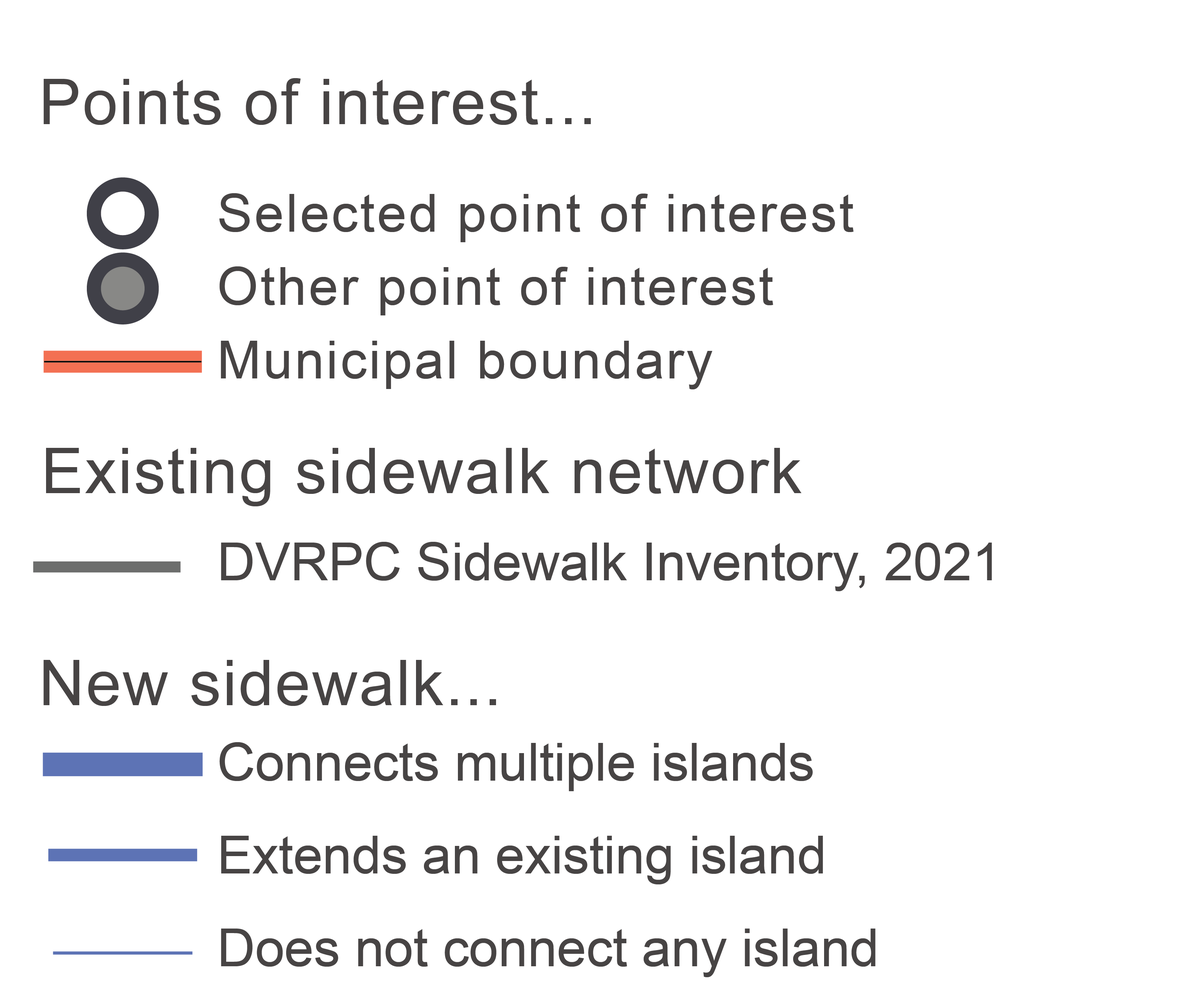
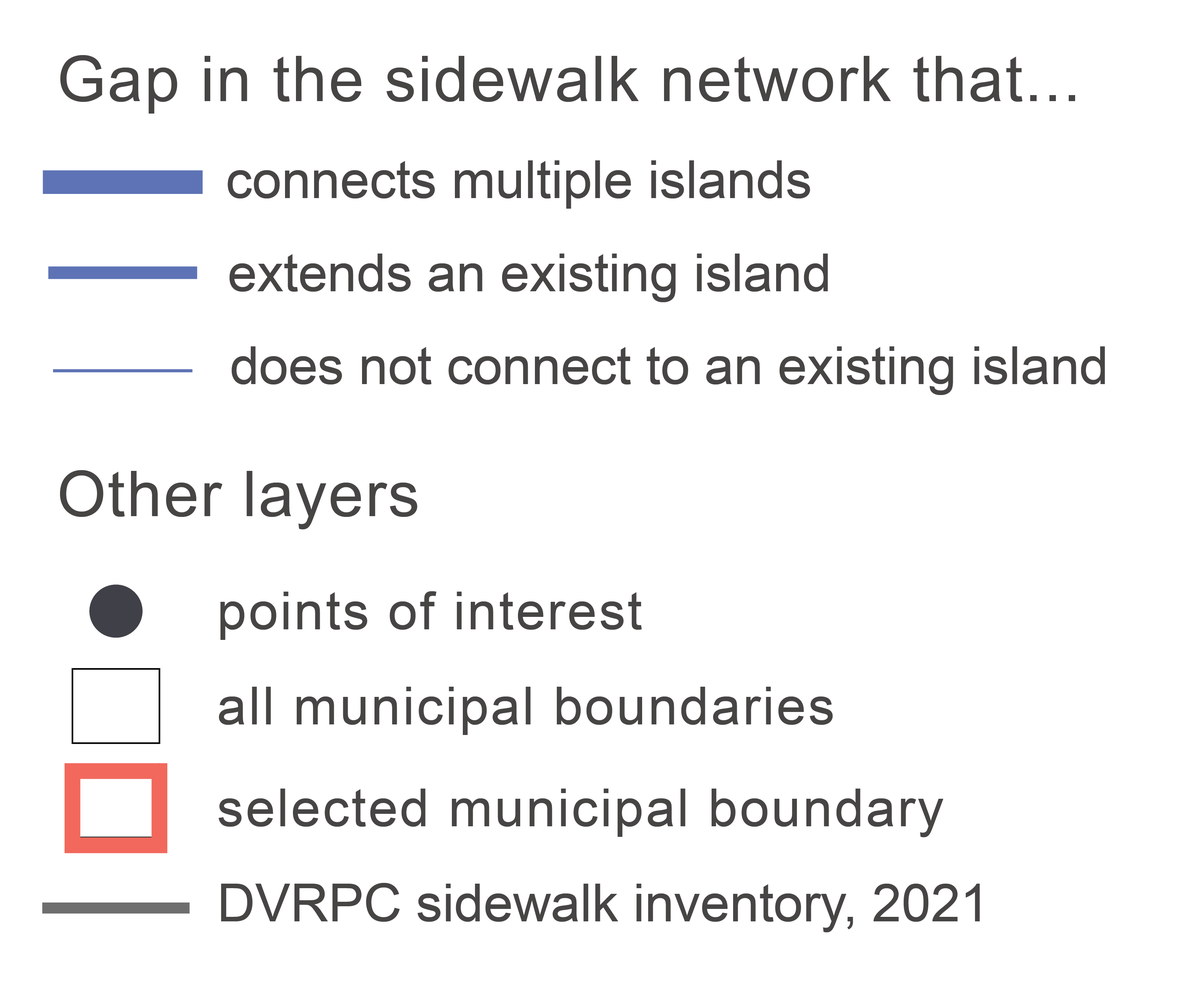
update legends

diff --git a/docs/main_municipal_map.bundle.js b/docs/main_municipal_map.bundle.js
@@ -1,1 +1,1 @@
-(()=>{"use strict";const e={"boundary-tiles":{type:"vector",url:"https://tiles.dvrpc.org/data/census_boundaries.json"},"sidewalk-tiles":{type:"vector",url:"https://tiles.dvrpc.org/data/pedestrian-network.json"},"mcpcv1-tiles":{type:"vector",url:"https://tiles.dvrpc.org/data/sidewalk-prioritiesv3.json"}},t=(e,t)=>{var i;(i=new XMLHttpRequest).open("GET","https://omad-api-lf2k9.ondigitalocean.app/sidewalk/all-munis",!0),i.setRequestHeader("Access-Control-Allow-Origin","*"),i.onload=function(){if(this.status>=200&&this.status<400){var i=JSON.parse(this.response);e.addSource("all-munis",{type:"geojson",data:i}),e.addLayer({id:"all-municipalities",type:"line",source:"all-munis",paint:{"line-color":"black","line-opacity":.5}},t)}},i.send(),(i=new XMLHttpRequest).open("GET","https://omad-api-lf2k9.ondigitalocean.app/sidewalk/one-muni/?q=Abington%20Township",!0),i.setRequestHeader("Access-Control-Allow-Origin","*"),i.onload=function(){if(this.status>=200&&this.status<400){var i=JSON.parse(this.response);e.addSource("one-muni",{type:"geojson",data:i}),e.addLayer({id:"selected-municipality",type:"line",source:"one-muni",paint:{"line-color":"red","line-opacity":0,"line-width":10}},t)}},i.send(),(i=new XMLHttpRequest).open("GET","https://omad-api-lf2k9.ondigitalocean.app/sidewalk/pois-near-gap/?q=60943",!0),i.setRequestHeader("Access-Control-Allow-Origin","*"),i.onload=function(){if(this.status>=200&&this.status<400){var i=JSON.parse(this.response);e.addSource("selected_poi_data",{type:"geojson",data:i}),e.addLayer({id:"selected_pois",type:"circle",source:"selected_poi_data",paint:{"circle-radius":10,"circle-opacity":0,"circle-stroke-opacity":0,"circle-stroke-color":"black","circle-stroke-width":1,"circle-color":{property:"ab_ratio",default:"black",stops:[[0,"rgba(0, 0, 0, 1)"],[1e-4,"rgba(255, 0, 0, 1)"],[.1,"rgba(255, 153, 0, 1)"],[.5,"rgba(255, 255, 0, 1)"],[1,"rgba(0, 153, 0, 1)"]]}}},t)}},i.send()},i=(e,t)=>{let i="https://omad-api-lf2k9.ondigitalocean.app/sidewalk/one-muni/?q="+t.replace(" ","%20"),o="https://omad-api-lf2k9.ondigitalocean.app/sidewalk/gaps-within-muni/?q="+t.replace(" ","%20");var s;console.log(i),(s=new XMLHttpRequest).open("GET",i,!0),s.setRequestHeader("Access-Control-Allow-Origin","*"),s.onload=function(){if(this.status>=200&&this.status<400){var t=JSON.parse(this.response);e.getSource("one-muni").setData(t),e.setPaintProperty("selected-municipality","line-opacity",.5)}},s.send(),(s=new XMLHttpRequest).open("GET",o,!0),s.setRequestHeader("Access-Control-Allow-Origin","*"),s.onload=function(){if(this.status>=200&&this.status<400){var t=JSON.parse(this.response);console.log(t);var i=["in","uid"].concat(t);e.setFilter("gaps",i),e.setPaintProperty("gaps","line-opacity",.5)}},s.send()},o=(e,t,i,o,a)=>{console.log(t),console.log(i);let n="https://omad-api-lf2k9.ondigitalocean.app/sidewalk/gaps-near-xy/?lng="+i+"&lat="+t;var l=new XMLHttpRequest;l.open("GET",n,!0),l.setRequestHeader("Access-Control-Allow-Origin","*"),l.onload=function(){if(this.status>=200&&this.status<400){var n=JSON.parse(this.response),l=["in","uid"].concat(n);e.setFilter("gaps",l),e.setPaintProperty("gaps","line-opacity",.5),s(e,o,[i,t],a)}},l.send()},s=(e,t,i,o)=>{var s=["in","uid",t];e.setFilter("clicked_gap",s),e.setPaintProperty("clicked_gap","line-opacity",1),e.flyTo({center:i,zoom:15,essential:!0});var a=document.getElementById("stat-island");a.innerHTML=o<1?"add to the sidewalk network where none currently exists":1==o?'extend the coverage of  <span class="green-text" style="font-weight: bold">one</span> existing island':'connect <span class="green-text" style="font-weight: bold">'+o+"</span> existing sidewalk islands";let n="https://omad-api-lf2k9.ondigitalocean.app/sidewalk/pois-near-gap/?q="+t.toString();var l=new XMLHttpRequest;l.open("GET",n,!0),l.setRequestHeader("Access-Control-Allow-Origin","*"),l.onload=function(){if(this.status>=200&&this.status<400){var t=JSON.parse(this.response),i=Object.keys(t.features).length;e.getSource("selected_poi_data").setData(t),e.setPaintProperty("selected_pois","circle-stroke-opacity",1),e.setPaintProperty("selected_pois","circle-opacity",1),document.getElementById("stat-destinations").innerHTML='improve pedestrian connectivity to <span class="green-text" style="font-weight: bold">'+i+"</span> destinations"}},l.send(),document.getElementById("stat-box").style.setProperty("visibility","visible")},a=e=>{e.on("click","all_pois",(function(e){var t=e.features[0].properties,i=e.lngLat.lat,o=e.lngLat.lng;let s=((a=window.location.href.split("/")).pop(),a.join("/")+"/by-destination.html?lat="+i+"&lng="+o+"&id="+t.poi_uid+"&name="+t.poi_name.replace(" ","_")+"&ab_ratio="+t.ab_ratio.toString());var a;console.log(s),window.location.href=s}))},n=(e,t,i)=>{new mapboxgl.Popup({closeButton:!1,className:"i-am-a-popup"}).setLngLat(i.lngLat).setHTML(t).addTo(e)},l=()=>{var e=document.getElementsByClassName("mapboxgl-popup");e.length&&e[0].remove()},r=e=>{["gaps","all_pois"].forEach((t=>((e,t)=>{e.on("mouseenter",t,(()=>e.getCanvas().style.cursor="pointer")),e.on("mouseleave",t,(function(t){e.getCanvas().style.cursor=""}))})(e,t))),e.on("mouseenter","gaps",(function(t){n(e,"<h3>Click this gap to learn more</h3>",t)})),e.on("mouseleave","gaps",(function(e){l()})),e.on("mouseenter","all_pois",(function(t){var i=t.features[0].properties,o="<div style='text-align: center;'><h3 class='green-text'>"+(e=>{try{var t=e.split(" ").map((e=>e[0].toUpperCase()+e.substr(1).toLowerCase())).join(" ")}catch{t=e}return t})(i.poi_name)+"</h3>";o+="<p>"+(e=>{var t=100*e;if(t>100&&(t=100),100==t)var i="100%";else i=0==t?"No":t<0?"Only":String(t.toFixed(1))+"%";return i})(i.ab_ratio)+" sidewalk coverage</p><p class='italic' style='font-size:80%'>Click this point to jump to the destination map</p></div>",n(e,o,t)})),e.on("mouseleave","all_pois",(function(e){l()}))};mapboxgl.accessToken="pk.eyJ1IjoiYWFyb25kdnJwYyIsImEiOiJja2NvN2s5dnAwaWR2MnptbzFwYmd2czVvIn0.Fcc34gzGME_zHR5q4RnSOg";const c={montco:{id:"montco",type:"line",source:"boundary-tiles","source-layer":"county",layout:{},paint:{"line-width":10,"line-opacity":.4,"line-color":"black"},filter:["==","CNTY_NAME","Montgomery County"]}},p={sw:{id:"sw",type:"line",source:"sidewalk-tiles","source-layer":"ped_lines",paint:{"line-width":4,"line-opacity":.2,"line-color":"black"},layout:{visibility:"visible"},filter:["all",["==","line_type",1],["==","county","MONTGOMERY"]]},xwalk:{id:"xwalk",type:"line",source:"sidewalk-tiles","source-layer":"ped_lines",paint:{"line-width":9,"line-opacity":.2,"line-color":"black"},layout:{visibility:"visible"},filter:["all",["==","line_type",2],["==","county","MONTGOMERY"]]},clicked_gap:{id:"clicked_gap",type:"line",source:"mcpcv1-tiles","source-layer":"montco_missing_sidewalks",paint:{"line-color":"yellow","line-opacity":0,"line-width":{property:"island_count",default:100,stops:[[0,3],[1,10],[2,20]]}},layout:{visibility:"visible"}},gaps:{id:"gaps",type:"line",source:"mcpcv1-tiles","source-layer":"montco_missing_sidewalks",paint:{"line-color":"rgb(57,83,164)","line-opacity":0,"line-width":{property:"island_count",default:100,stops:[[0,1],[1,5],[2,10]]}},layout:{visibility:"visible"},filter:["==","uid","-1"]},all_pois:{id:"all_pois",type:"circle",source:"mcpcv1-tiles","source-layer":"pois_centroids",layout:{},paint:{"circle-radius":3,"circle-opacity":.6,"circle-stroke-opacity":.6,"circle-stroke-color":"white","circle-stroke-width":1,"circle-color":"black"}}},d={sidewalks:{id:"sw",attribute:"line-width",style:["interpolate",["exponential",.5],["zoom"],10,.01,17,3]},crosswalks:{id:"xwalk",attribute:"line-width",style:["interpolate",["exponential",.5],["zoom"],10,.05,18,6]}},u=e=>{var t=document.getElementById("dropdown_muni"),o=document.getElementById("subtitle");t.addEventListener("change",(function(){var s=t.value;o.innerHTML=s,i(e,s),document.getElementById("stat-box").style.setProperty("visibility","hidden");let a="https://omad-api-lf2k9.ondigitalocean.app/sidewalk/one-muni-centroid/?q="+s.replace(" ","%20");var n=new XMLHttpRequest;n.open("GET",a,!0),n.setRequestHeader("Access-Control-Allow-Origin","*"),n.onload=function(){if(this.status>=200&&this.status<400){var t=JSON.parse(this.response);console.log(t),e.flyTo({center:[t[0].x,t[0].y],zoom:13,essential:!0})}},n.send(),e.setPaintProperty("clicked_gap","line-opacity",0),e.setPaintProperty("selected_pois","circle-opacity",0),e.setPaintProperty("selected_pois","circle-stroke-opacity",0)}))},y=new mapboxgl.Map({container:"map",style:"mapbox://styles/aarondvrpc/ckqhcmx6x95x318pgqzt4jicq",center:[-75.36277290123333,40.20129661107534],zoom:10});y.on("load",(function(){for(const t in e)y.addSource(t,e[t]);for(const e in c)y.addLayer(c[e],"road-label");t(y,"road-label");for(const e in p)y.addLayer(p[e],"road-label");for(const e in d)y.setPaintProperty(d[e].id,d[e].attribute,d[e].style);(e=>{e.on("click","gaps",(function(t){var i=t.features[0].properties;console.log(i),s(e,i.uid,t.lngLat,i.island_count)}))})(y),a(y),r(y),u(y);let i=(()=>{let e=new URLSearchParams(window.location).get("search");if(""==e)return null;{let t={};return e.split("&").forEach((e=>{let i=(e=e.replace("?","")).split("=");t[i[0]]=i[1]})),t}})();i&&(console.log(i),o(y,i.lat,i.lng,parseInt(i.id),i.island_count))}))})();
+(()=>{"use strict";const e={"boundary-tiles":{type:"vector",url:"https://tiles.dvrpc.org/data/census_boundaries.json"},"sidewalk-tiles":{type:"vector",url:"https://tiles.dvrpc.org/data/pedestrian-network.json"},"mcpcv1-tiles":{type:"vector",url:"https://tiles.dvrpc.org/data/sidewalk-prioritiesv3.json"}},t=(e,t)=>{var i;(i=new XMLHttpRequest).open("GET","https://omad-api-lf2k9.ondigitalocean.app/sidewalk/all-munis",!0),i.setRequestHeader("Access-Control-Allow-Origin","*"),i.onload=function(){if(this.status>=200&&this.status<400){var i=JSON.parse(this.response);e.addSource("all-munis",{type:"geojson",data:i}),e.addLayer({id:"all-municipalities",type:"line",source:"all-munis",paint:{"line-color":"black","line-opacity":.5}},t)}},i.send(),(i=new XMLHttpRequest).open("GET","https://omad-api-lf2k9.ondigitalocean.app/sidewalk/one-muni/?q=Abington%20Township",!0),i.setRequestHeader("Access-Control-Allow-Origin","*"),i.onload=function(){if(this.status>=200&&this.status<400){var i=JSON.parse(this.response);e.addSource("one-muni",{type:"geojson",data:i}),e.addLayer({id:"selected-municipality",type:"line",source:"one-muni",paint:{"line-color":"red","line-opacity":0,"line-width":10}},t)}},i.send(),(i=new XMLHttpRequest).open("GET","https://omad-api-lf2k9.ondigitalocean.app/sidewalk/pois-near-gap/?q=60943",!0),i.setRequestHeader("Access-Control-Allow-Origin","*"),i.onload=function(){if(this.status>=200&&this.status<400){var i=JSON.parse(this.response);e.addSource("selected_poi_data",{type:"geojson",data:i}),e.addLayer({id:"selected_pois",type:"circle",source:"selected_poi_data",paint:{"circle-radius":10,"circle-opacity":0,"circle-stroke-opacity":0,"circle-stroke-color":"black","circle-stroke-width":1,"circle-color":{property:"ab_ratio",default:"black",stops:[[0,"rgba(0, 0, 0, 1)"],[1e-4,"rgba(255, 0, 0, 1)"],[.1,"rgba(255, 153, 0, 1)"],[.5,"rgba(255, 255, 0, 1)"],[1,"rgba(0, 153, 0, 1)"]]}}},t)}},i.send()},i=(e,t)=>{let i="https://omad-api-lf2k9.ondigitalocean.app/sidewalk/one-muni/?q="+t.replace(" ","%20"),o="https://omad-api-lf2k9.ondigitalocean.app/sidewalk/gaps-within-muni/?q="+t.replace(" ","%20");var s;console.log(i),(s=new XMLHttpRequest).open("GET",i,!0),s.setRequestHeader("Access-Control-Allow-Origin","*"),s.onload=function(){if(this.status>=200&&this.status<400){var t=JSON.parse(this.response);e.getSource("one-muni").setData(t),e.setPaintProperty("selected-municipality","line-opacity",.5)}},s.send(),(s=new XMLHttpRequest).open("GET",o,!0),s.setRequestHeader("Access-Control-Allow-Origin","*"),s.onload=function(){if(this.status>=200&&this.status<400){var t=JSON.parse(this.response);console.log(t);var i=["in","uid"].concat(t);e.setFilter("gaps",i),e.setPaintProperty("gaps","line-opacity",.5)}},s.send()},o=(e,t,i,o,a)=>{console.log(t),console.log(i);let n="https://omad-api-lf2k9.ondigitalocean.app/sidewalk/gaps-near-xy/?lng="+i+"&lat="+t;var l=new XMLHttpRequest;l.open("GET",n,!0),l.setRequestHeader("Access-Control-Allow-Origin","*"),l.onload=function(){if(this.status>=200&&this.status<400){var n=JSON.parse(this.response),l=["in","uid"].concat(n);e.setFilter("gaps",l),e.setPaintProperty("gaps","line-opacity",.5),s(e,o,[i,t],a)}},l.send()},s=(e,t,i,o)=>{var s=["in","uid",t];e.setFilter("clicked_gap",s),e.setPaintProperty("clicked_gap","line-opacity",1),e.flyTo({center:i,zoom:15,essential:!0});var a=document.getElementById("stat-island");a.innerHTML=o<1?"add to the sidewalk network where none currently exists":1==o?'extend the coverage of  <span class="green-text" style="font-weight: bold">one</span> existing island':'connect <span class="green-text" style="font-weight: bold">'+o+"</span> existing sidewalk islands";let n="https://omad-api-lf2k9.ondigitalocean.app/sidewalk/pois-near-gap/?q="+t.toString();var l=new XMLHttpRequest;l.open("GET",n,!0),l.setRequestHeader("Access-Control-Allow-Origin","*"),l.onload=function(){if(this.status>=200&&this.status<400){var t=JSON.parse(this.response),i=Object.keys(t.features).length;e.getSource("selected_poi_data").setData(t),e.setPaintProperty("selected_pois","circle-stroke-opacity",1),e.setPaintProperty("selected_pois","circle-opacity",1),document.getElementById("stat-destinations").innerHTML='improve pedestrian connectivity to <span class="green-text" style="font-weight: bold">'+i+"</span> destinations"}},l.send(),document.getElementById("stat-box").style.setProperty("visibility","visible"),document.getElementById("poi-legend").style.setProperty("display","inline")},a=e=>{e.on("click","all_pois",(function(e){var t=e.features[0].properties,i=e.lngLat.lat,o=e.lngLat.lng;let s=((a=window.location.href.split("/")).pop(),a.join("/")+"/by-destination.html?lat="+i+"&lng="+o+"&id="+t.poi_uid+"&name="+t.poi_name.replace(" ","_")+"&ab_ratio="+t.ab_ratio.toString());var a;console.log(s),window.location.href=s}))},n=(e,t,i)=>{new mapboxgl.Popup({closeButton:!1,className:"i-am-a-popup"}).setLngLat(i.lngLat).setHTML(t).addTo(e)},l=()=>{var e=document.getElementsByClassName("mapboxgl-popup");e.length&&e[0].remove()},r=e=>{["gaps","all_pois"].forEach((t=>((e,t)=>{e.on("mouseenter",t,(()=>e.getCanvas().style.cursor="pointer")),e.on("mouseleave",t,(function(t){e.getCanvas().style.cursor=""}))})(e,t))),e.on("mouseenter","gaps",(function(t){n(e,"<h3>Click this gap to learn more</h3>",t)})),e.on("mouseleave","gaps",(function(e){l()})),e.on("mouseenter","all_pois",(function(t){var i=t.features[0].properties,o="<div style='text-align: center;'><h3 class='green-text'>"+(e=>{try{var t=e.split(" ").map((e=>e[0].toUpperCase()+e.substr(1).toLowerCase())).join(" ")}catch{t=e}return t})(i.poi_name)+"</h3>";o+="<p>"+(e=>{var t=100*e;if(t>100&&(t=100),100==t)var i="100%";else i=0==t?"No":t<0?"Only":String(t.toFixed(1))+"%";return i})(i.ab_ratio)+" sidewalk coverage</p><p class='italic' style='font-size:80%'>Click this point to jump to the destination map</p></div>",n(e,o,t)})),e.on("mouseleave","all_pois",(function(e){l()}))};mapboxgl.accessToken="pk.eyJ1IjoiYWFyb25kdnJwYyIsImEiOiJja2NvN2s5dnAwaWR2MnptbzFwYmd2czVvIn0.Fcc34gzGME_zHR5q4RnSOg";const c={montco:{id:"montco",type:"line",source:"boundary-tiles","source-layer":"county",layout:{},paint:{"line-width":10,"line-opacity":.4,"line-color":"black"},filter:["==","CNTY_NAME","Montgomery County"]}},p={sw:{id:"sw",type:"line",source:"sidewalk-tiles","source-layer":"ped_lines",paint:{"line-width":4,"line-opacity":.2,"line-color":"black"},layout:{visibility:"visible"},filter:["all",["==","line_type",1],["==","county","MONTGOMERY"]]},xwalk:{id:"xwalk",type:"line",source:"sidewalk-tiles","source-layer":"ped_lines",paint:{"line-width":9,"line-opacity":.2,"line-color":"black"},layout:{visibility:"visible"},filter:["all",["==","line_type",2],["==","county","MONTGOMERY"]]},clicked_gap:{id:"clicked_gap",type:"line",source:"mcpcv1-tiles","source-layer":"montco_missing_sidewalks",paint:{"line-color":"yellow","line-opacity":0,"line-width":{property:"island_count",default:100,stops:[[0,3],[1,10],[2,20]]}},layout:{visibility:"visible"}},gaps:{id:"gaps",type:"line",source:"mcpcv1-tiles","source-layer":"montco_missing_sidewalks",paint:{"line-color":"rgb(57,83,164)","line-opacity":0,"line-width":{property:"island_count",default:100,stops:[[0,1],[1,5],[2,10]]}},layout:{visibility:"visible"},filter:["==","uid","-1"]},all_pois:{id:"all_pois",type:"circle",source:"mcpcv1-tiles","source-layer":"pois_centroids",layout:{},paint:{"circle-radius":3,"circle-opacity":.6,"circle-stroke-opacity":.6,"circle-stroke-color":"white","circle-stroke-width":1,"circle-color":"black"}}},d={sidewalks:{id:"sw",attribute:"line-width",style:["interpolate",["exponential",.5],["zoom"],10,.01,17,3]},crosswalks:{id:"xwalk",attribute:"line-width",style:["interpolate",["exponential",.5],["zoom"],10,.05,18,6]}},u=e=>{var t=document.getElementById("dropdown_muni"),o=document.getElementById("subtitle");t.addEventListener("change",(function(){var s=t.value;o.innerHTML=s,i(e,s),document.getElementById("stat-box").style.setProperty("visibility","hidden");let a="https://omad-api-lf2k9.ondigitalocean.app/sidewalk/one-muni-centroid/?q="+s.replace(" ","%20");var n=new XMLHttpRequest;n.open("GET",a,!0),n.setRequestHeader("Access-Control-Allow-Origin","*"),n.onload=function(){if(this.status>=200&&this.status<400){var t=JSON.parse(this.response);console.log(t),e.flyTo({center:[t[0].x,t[0].y],zoom:13,essential:!0})}},n.send(),e.setPaintProperty("clicked_gap","line-opacity",0),e.setPaintProperty("selected_pois","circle-opacity",0),e.setPaintProperty("selected_pois","circle-stroke-opacity",0)}))},y=new mapboxgl.Map({container:"map",style:"mapbox://styles/aarondvrpc/ckqhcmx6x95x318pgqzt4jicq",center:[-75.36277290123333,40.20129661107534],zoom:10});y.on("load",(function(){for(const t in e)y.addSource(t,e[t]);for(const e in c)y.addLayer(c[e],"road-label");t(y,"road-label");for(const e in p)y.addLayer(p[e],"road-label");for(const e in d)y.setPaintProperty(d[e].id,d[e].attribute,d[e].style);(e=>{e.on("click","gaps",(function(t){var i=t.features[0].properties;console.log(i),s(e,i.uid,t.lngLat,i.island_count)}))})(y),a(y),r(y),u(y);let i=(()=>{let e=new URLSearchParams(window.location).get("search");if(""==e)return null;{let t={};return e.split("&").forEach((e=>{let i=(e=e.replace("?","")).split("=");t[i[0]]=i[1]})),t}})();i&&(console.log(i),o(y,i.lat,i.lng,parseInt(i.id),i.island_count))}))})();

diff --git a/docs/by-municipality.html b/docs/by-municipality.html
@@ -1,1 +1,1 @@
-<!doctype html><html><head><meta charset="utf-8"><title>Sidewalk Priorities</title><meta name="viewport" content="initial-scale=1,maximum-scale=1,user-scalable=no"><link href="https://api.mapbox.com/mapbox-gl-js/v2.3.1/mapbox-gl.css" rel="stylesheet"><script src="https://api.mapbox.com/mapbox-gl-js/v2.3.1/mapbox-gl.js"></script><link rel="preconnect" href="https://fonts.gstatic.com"><link href="https://fonts.googleapis.com/css2?family=Roboto:wght@100;400;500&display=swap" rel="stylesheet"><script src="https://cdnjs.cloudflare.com/ajax/libs/Chart.js/3.5.0/chart.min.js" integrity="sha512-asxKqQghC1oBShyhiBwA+YgotaSYKxGP1rcSYTDrB0U6DxwlJjU59B67U8+5/++uFjcuVM8Hh5cokLjZlhm3Vg==" crossorigin="anonymous" referrerpolicy="no-referrer"></script><script defer="defer" src="main_municipal_map.bundle.js"></script><link href="main_municipal_map.css" rel="stylesheet"></head><body><div id="map"><div id="headerblock"><div class="box-overlay"><h1>Priorities by Municipality:</h1><h2 id="subtitle" class="green-text">Use the dropdown below to select a municipality of interest</h2><hr><span class="green-text italic">Zoom to a municipality</span> by selecting from the list below:<p><select id="dropdown_muni"><option value="...">...</option><option value="Abington Township">Abington Township</option><option value="Ambler Borough">Ambler Borough</option><option value="Bridgeport Borough">Bridgeport Borough</option><option value="Bryn Athyn Borough">Bryn Athyn Borough</option><option value="Cheltenham Township">Cheltenham Township</option><option value="Collegeville Borough">Collegeville Borough</option><option value="Conshohocken Borough">Conshohocken Borough</option><option value="Douglass Township">Douglass Township</option><option value="East Greenville Borough">East Greenville Borough</option><option value="East Norriton Township">East Norriton Township</option><option value="Franconia Township">Franconia Township</option><option value="Green Lane Borough">Green Lane Borough</option><option value="Hatboro Borough">Hatboro Borough</option><option value="Hatfield Borough">Hatfield Borough</option><option value="Hatfield Township">Hatfield Township</option><option value="Horsham Township">Horsham Township</option><option value="Jenkintown Borough">Jenkintown Borough</option><option value="Lansdale Borough">Lansdale Borough</option><option value="Limerick Township">Limerick Township</option><option value="Lower Frederick Township">Lower Frederick Township</option><option value="Lower Gwynedd Township">Lower Gwynedd Township</option><option value="Lower Merion Township">Lower Merion Township</option><option value="Lower Moreland Township">Lower Moreland Township</option><option value="Lower Pottsgrove Township">Lower Pottsgrove Township</option><option value="Lower Providence Township">Lower Providence Township</option><option value="Lower Salford Township">Lower Salford Township</option><option value="Marlborough Township">Marlborough Township</option><option value="Montgomery Township">Montgomery Township</option><option value="Narberth Borough">Narberth Borough</option><option value="New Hanover Township">New Hanover Township</option><option value="Norristown Borough">Norristown Borough</option><option value="North Wales Borough">North Wales Borough</option><option value="Pennsburg Borough">Pennsburg Borough</option><option value="Perkiomen Township">Perkiomen Township</option><option value="Plymouth Township">Plymouth Township</option><option value="Pottstown Borough">Pottstown Borough</option><option value="Red Hill Borough">Red Hill Borough</option><option value="Rockledge Borough">Rockledge Borough</option><option value="Royersford Borough">Royersford Borough</option><option value="Salford Township">Salford Township</option><option value="Schwenksville Borough">Schwenksville Borough</option><option value="Skippack Township">Skippack Township</option><option value="Souderton Borough">Souderton Borough</option><option value="Springfield Township">Springfield Township</option><option value="Telford Borough">Telford Borough</option><option value="Towamencin Township">Towamencin Township</option><option value="Trappe Borough">Trappe Borough</option><option value="Upper Dublin Township">Upper Dublin Township</option><option value="Upper Frederick Township">Upper Frederick Township</option><option value="Upper Gwynedd Township">Upper Gwynedd Township</option><option value="Upper Hanover Township">Upper Hanover Township</option><option value="Upper Merion Township">Upper Merion Township</option><option value="Upper Moreland Township">Upper Moreland Township</option><option value="Upper Pottsgrove Township">Upper Pottsgrove Township</option><option value="Upper Providence Township">Upper Providence Township</option><option value="Upper Salford Township">Upper Salford Township</option><option value="West Conshohocken Borough">West Conshohocken Borough</option><option value="West Norriton Township">West Norriton Township</option><option value="West Pottsgrove Township">West Pottsgrove Township</option><option value="Whitemarsh Township">Whitemarsh Township</option><option value="Whitpain Township">Whitpain Township</option><option value="Worcester Township">Worcester Township</option></select></p><hr><div class="btn-group"><button class="button" onclick="location.href='index.html'">About this map</button> <button class="button" onclick="location.href='by-destination.html'">Explore by Destination</button></div></div><div id="stat-box" class="box-overlay"><h2>Filling this gap could:</h2><ul><li id="stat-destinations">improve pedestrian connectivity to <span class="green-text">X</span> destinations</li><li id="stat-island">connect <span class="green-text">X</span> existing sidewalk islands</li></ul></div></div><div id="legendblock"><div class="box-overlay"><h3>This is a placeholder for the legend</h3></div></div><div id="logo-box"><div><img id="dvrpc-logo" src="./img/logo.png" alt=""><br><br><img id="mcpc-logo" src="./img/mcpc_logo.png" alt=""></div></div></div></body></html>
+<!doctype html><html><head><meta charset="utf-8"><title>Sidewalk Priorities</title><meta name="viewport" content="initial-scale=1,maximum-scale=1,user-scalable=no"><link href="https://api.mapbox.com/mapbox-gl-js/v2.3.1/mapbox-gl.css" rel="stylesheet"><script src="https://api.mapbox.com/mapbox-gl-js/v2.3.1/mapbox-gl.js"></script><link rel="preconnect" href="https://fonts.gstatic.com"><link href="https://fonts.googleapis.com/css2?family=Roboto:wght@100;400;500&display=swap" rel="stylesheet"><script src="https://cdnjs.cloudflare.com/ajax/libs/Chart.js/3.5.0/chart.min.js" integrity="sha512-asxKqQghC1oBShyhiBwA+YgotaSYKxGP1rcSYTDrB0U6DxwlJjU59B67U8+5/++uFjcuVM8Hh5cokLjZlhm3Vg==" crossorigin="anonymous" referrerpolicy="no-referrer"></script><script defer="defer" src="main_municipal_map.bundle.js"></script><link href="main_municipal_map.css" rel="stylesheet"></head><body><div id="map"><div id="headerblock"><div class="box-overlay"><h1>Priorities by Municipality:</h1><h2 id="subtitle" class="green-text">Use the dropdown below to select a municipality of interest</h2><hr><span class="green-text italic">Zoom to a municipality</span> by selecting from the list below:<p><select id="dropdown_muni"><option value="...">...</option><option value="Abington Township">Abington Township</option><option value="Ambler Borough">Ambler Borough</option><option value="Bridgeport Borough">Bridgeport Borough</option><option value="Bryn Athyn Borough">Bryn Athyn Borough</option><option value="Cheltenham Township">Cheltenham Township</option><option value="Collegeville Borough">Collegeville Borough</option><option value="Conshohocken Borough">Conshohocken Borough</option><option value="Douglass Township">Douglass Township</option><option value="East Greenville Borough">East Greenville Borough</option><option value="East Norriton Township">East Norriton Township</option><option value="Franconia Township">Franconia Township</option><option value="Green Lane Borough">Green Lane Borough</option><option value="Hatboro Borough">Hatboro Borough</option><option value="Hatfield Borough">Hatfield Borough</option><option value="Hatfield Township">Hatfield Township</option><option value="Horsham Township">Horsham Township</option><option value="Jenkintown Borough">Jenkintown Borough</option><option value="Lansdale Borough">Lansdale Borough</option><option value="Limerick Township">Limerick Township</option><option value="Lower Frederick Township">Lower Frederick Township</option><option value="Lower Gwynedd Township">Lower Gwynedd Township</option><option value="Lower Merion Township">Lower Merion Township</option><option value="Lower Moreland Township">Lower Moreland Township</option><option value="Lower Pottsgrove Township">Lower Pottsgrove Township</option><option value="Lower Providence Township">Lower Providence Township</option><option value="Lower Salford Township">Lower Salford Township</option><option value="Marlborough Township">Marlborough Township</option><option value="Montgomery Township">Montgomery Township</option><option value="Narberth Borough">Narberth Borough</option><option value="New Hanover Township">New Hanover Township</option><option value="Norristown Borough">Norristown Borough</option><option value="North Wales Borough">North Wales Borough</option><option value="Pennsburg Borough">Pennsburg Borough</option><option value="Perkiomen Township">Perkiomen Township</option><option value="Plymouth Township">Plymouth Township</option><option value="Pottstown Borough">Pottstown Borough</option><option value="Red Hill Borough">Red Hill Borough</option><option value="Rockledge Borough">Rockledge Borough</option><option value="Royersford Borough">Royersford Borough</option><option value="Salford Township">Salford Township</option><option value="Schwenksville Borough">Schwenksville Borough</option><option value="Skippack Township">Skippack Township</option><option value="Souderton Borough">Souderton Borough</option><option value="Springfield Township">Springfield Township</option><option value="Telford Borough">Telford Borough</option><option value="Towamencin Township">Towamencin Township</option><option value="Trappe Borough">Trappe Borough</option><option value="Upper Dublin Township">Upper Dublin Township</option><option value="Upper Frederick Township">Upper Frederick Township</option><option value="Upper Gwynedd Township">Upper Gwynedd Township</option><option value="Upper Hanover Township">Upper Hanover Township</option><option value="Upper Merion Township">Upper Merion Township</option><option value="Upper Moreland Township">Upper Moreland Township</option><option value="Upper Pottsgrove Township">Upper Pottsgrove Township</option><option value="Upper Providence Township">Upper Providence Township</option><option value="Upper Salford Township">Upper Salford Township</option><option value="West Conshohocken Borough">West Conshohocken Borough</option><option value="West Norriton Township">West Norriton Township</option><option value="West Pottsgrove Township">West Pottsgrove Township</option><option value="Whitemarsh Township">Whitemarsh Township</option><option value="Whitpain Township">Whitpain Township</option><option value="Worcester Township">Worcester Township</option></select></p><hr><div class="btn-group"><button class="button" onclick="location.href='index.html'">About this map</button> <button class="button" onclick="location.href='by-destination.html'">Explore by Destination</button></div></div><div id="stat-box" class="box-overlay"><h2>Filling this gap could:</h2><ul><li id="stat-destinations">improve pedestrian connectivity to <span class="green-text">X</span> destinations</li><li id="stat-island">connect <span class="green-text">X</span> existing sidewalk islands</li></ul></div></div><div id="legendblock"><div class="box-overlay"><img id="gap-legend" style="width: 100%" src="./img/Legends_Municipality_Legend.png"> <img id="poi-legend" style="width: 100%; display: none" src="./img/Legends_muni-map-pois.png"></div></div><div id="logo-box"><div><img id="dvrpc-logo" src="./img/logo.png" alt=""><br><br><img id="mcpc-logo" src="./img/mcpc_logo.png" alt=""></div></div></div></body></html>

diff --git a/src/municipality.html b/src/municipality.html
@@ -186,7 +186,17 @@
 
       <div id="legendblock">
         <div class="box-overlay">
-          <h3>This is a placeholder for the legend</h3>
+          <!-- <h3>This is a placeholder for the legend</h3> -->
+          <img
+            id="gap-legend"
+            style="width: 100%"
+            src="./img/Legends_Municipality_Legend.png"
+          />
+          <img
+            id="poi-legend"
+            style="width: 100%; display: none"
+            src="./img/Legends_muni-map-pois.png"
+          />
         </div>
       </div>
 

diff --git a/src/js/municipal_map/clicks.js b/src/js/municipal_map/clicks.js
@@ -68,6 +68,10 @@ const handle_selected_gap = (map, uid, map_center, island_count) => {
   // Show the info box for this POI
   var infoBox = document.getElementById("stat-box");
   infoBox.style.setProperty("visibility", "visible");
+
+  // Show the secondary legend
+  var legend = document.getElementById("poi-legend");
+  legend.style.setProperty("display", "inline");
 };
 
 const gap_click = (map) => {
